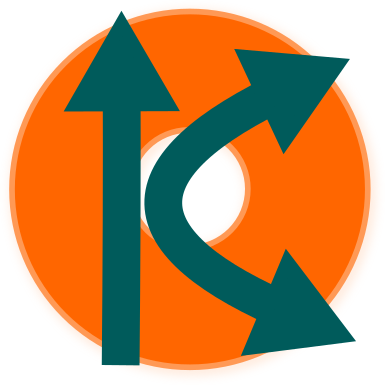
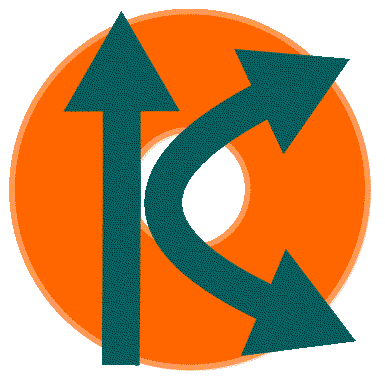
update Splashscreen

diff --git a/KPolar/GUI/Splashscreen.Designer.cs b/KPolar/GUI/Splashscreen.Designer.cs
@@ -47,7 +47,7 @@
             // 
             this.AutoScaleDimensions = new System.Drawing.SizeF(6F, 13F);
             this.AutoScaleMode = System.Windows.Forms.AutoScaleMode.Font;
-            this.BackColor = System.Drawing.Color.White;
+            this.BackColor = System.Drawing.Color.FromArgb(((int)(((byte)(255)))), ((int)(((byte)(128)))), ((int)(((byte)(0)))));
             this.BackgroundImage = global::GrblPlotter.Properties.Resources.kplotter;
             this.BackgroundImageLayout = System.Windows.Forms.ImageLayout.Stretch;
             this.ClientSize = new System.Drawing.Size(320, 320);
@@ -62,7 +62,7 @@
             this.StartPosition = System.Windows.Forms.FormStartPosition.CenterScreen;
             this.Text = "splashscreen";
             this.TopMost = true;
-            this.TransparencyKey = System.Drawing.Color.White;
+            this.TransparencyKey = System.Drawing.Color.FromArgb(((int)(((byte)(255)))), ((int)(((byte)(128)))), ((int)(((byte)(0)))));
             this.Load += new System.EventHandler(this.Splashscreen_Load);
             this.ResumeLayout(false);
             this.PerformLayout();

diff --git a/README.md b/README.md
@@ -13,11 +13,11 @@ A fork of GRBL-Plotter quickly remastered to work with my Klipper Polar Plotter
 [![GitHub latest commit](https://badgen.net/github/last-commit/svenhb/GRBL-Plotter)](https://GitHub.com/svenhb/GRBL-Plotter/commit/)
 [![Github all releases](https://img.shields.io/github/downloads/svenhb/GRBL-Plotter/total.svg)](https://GitHub.com/svenhb/GRBL-Plotter/releases/)  
 
-#### [KPlotter Vers. 0.1.0.0](https://github.com/fbeaukmi/KPolar/releases/latest)  2025-03-16     
+#### [KPlotter Vers. 0.1.0.1](https://github.com/fbeaukmi/KPolar/releases/latest)  2025-03-16     
 
 ### Requirements for compiling
 * VisualStudio 2022 
 * .NET 4.8
 
-![KPolar?jpg](./kpolar.jpg)
+![KPolar.png](./kpolar.png)
  
